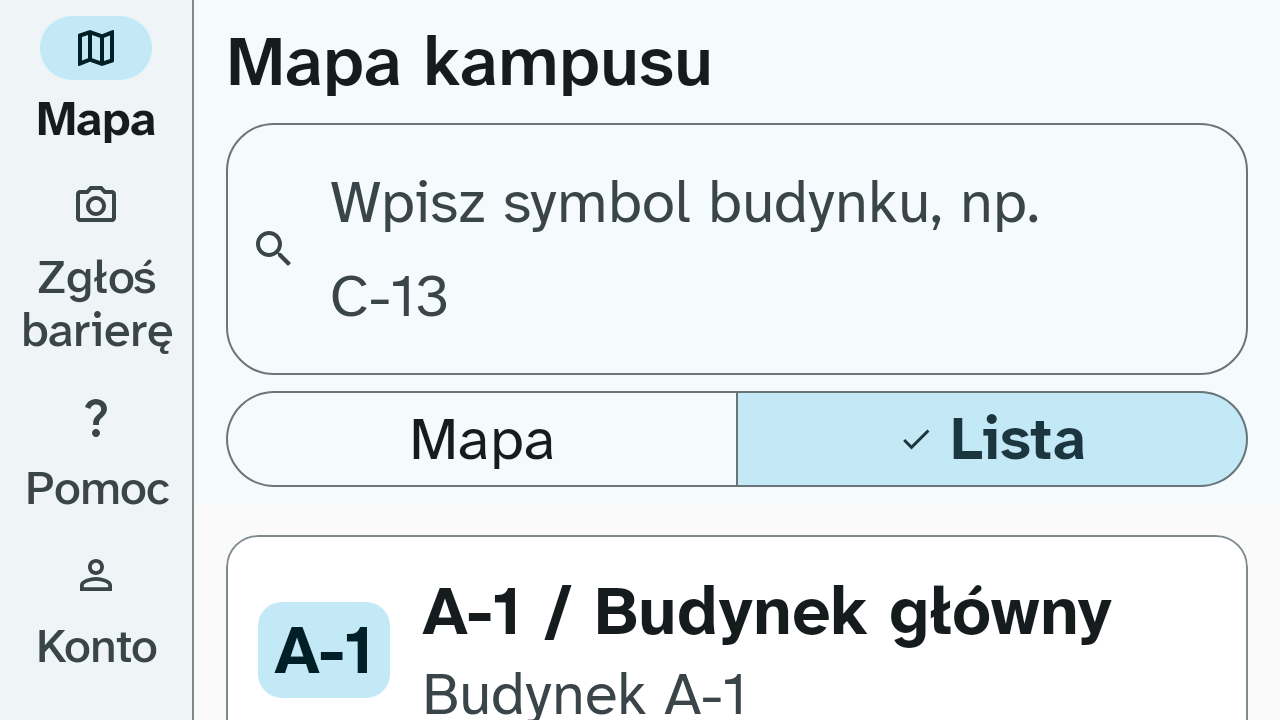
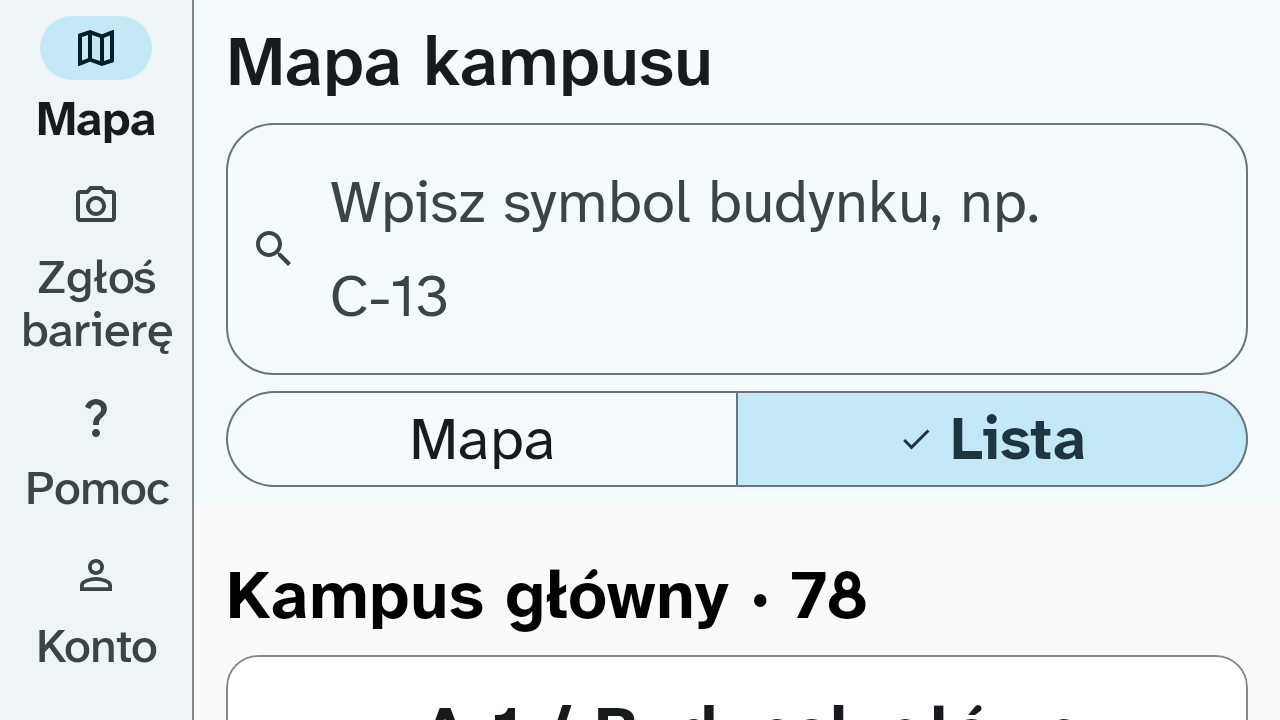
feat(android): nagłówki terenów na liście budynków v1 (#1058)
Lista budynków jest podzielona nagłówkami terenów z liczbą budynków:
teren pokazany na mapie pierwszy, pozostałe od najbliższego. Tereny
mapy są stanem ekranu, bo zna je teraz także lista.

Closes #1055

diff --git a/android/feature/map/src/test/kotlin/io/github/dostepnykampus/feature/map/BuildingListTest.kt b/android/feature/map/src/test/kotlin/io/github/dostepnykampus/feature/map/BuildingListTest.kt
@@ -1,0 +1,110 @@
+/*
+ * Dostępny Kampus
+ * Author: Vladyslav Yevkov
+ * Copyright (c) 2026 Vladyslav Yevkov, Myroslav Hryniuka, Yevhenii Lukianenko
+ */
+package io.github.dostepnykampus.feature.map
+
+import androidx.activity.ComponentActivity
+import androidx.compose.runtime.Composable
+import androidx.compose.ui.semantics.SemanticsProperties
+import androidx.compose.ui.test.SemanticsMatcher
+import androidx.compose.ui.test.assert
+import androidx.compose.ui.test.getUnclippedBoundsInRoot
+import androidx.compose.ui.test.junit4.v2.createAndroidComposeRule
+import androidx.compose.ui.test.onNodeWithContentDescription
+import androidx.compose.ui.test.onRoot
+import androidx.compose.ui.test.performClick
+import com.github.takahirom.roborazzi.captureRoboImage
+import io.github.dostepnykampus.core.designsystem.DostepnyKampusTheme
+import io.github.dostepnykampus.core.model.Building
+import io.github.dostepnykampus.core.model.BuildingCatalog
+import io.github.dostepnykampus.core.model.GeoPoint
+import io.github.dostepnykampus.core.model.GeoPolygon
+import io.github.dostepnykampus.feature.map.data.CampusBounds
+import io.github.dostepnykampus.feature.map.data.MapArea
+import org.junit.Assert.assertEquals
+import org.junit.Assert.assertTrue
+import org.junit.Rule
+import org.junit.Test
+import org.junit.runner.RunWith
+import org.robolectric.RobolectricTestRunner
+import org.robolectric.annotation.Config
+import org.robolectric.annotation.GraphicsMode
+
+/**
+ * Lista budynków V1 z nagłówkami terenów (US1.8, NFR-18, NFR-19) na budynkach testowych „Budynek testowy” (nie dane
+ * PWr): mapa pokazuje teren „Wittigowo”, więc stoi on na liście pierwszy.
+ */
+@RunWith(RobolectricTestRunner::class)
+@GraphicsMode(GraphicsMode.Mode.NATIVE)
+@Config(qualifiers = "w360dp-h800dp-xhdpi")
+class BuildingListTest {
+    @get:Rule
+    val compose = createAndroidComposeRule<ComponentActivity>()
+
+    private val catalog =
+        BuildingCatalog(
+            buildings = listOf("A-1", "T-15", "C-13", "T-16").map(::building),
+            entrances = emptyList(),
+            attribution = "",
+        )
+    private val areas =
+        AreaOrder(listOf(area("Wittigowo", "T-15", "T-16"), area("Kampus główny", "A-1", "C-13")))
+    private val chosen = mutableListOf<String>()
+
+    /**
+     * Wiersz: V1, lista budynków ma nagłówki terenów z liczbą budynków, teren pokazany na mapie pierwszy; nagłówek
+     * jest nagłówkiem dla TalkBack (US1.8, NFR-18, NFR-19).
+     */
+    @Test
+    fun us1_8_area_headings_in_order() {
+        compose.setContent { List(query = "") }
+        val first = compose.onNodeWithContentDescription("Wittigowo, 2 budynki")
+        val second = compose.onNodeWithContentDescription("Kampus główny, 2 budynki")
+        first.assert(SemanticsMatcher.keyIsDefined(SemanticsProperties.Heading))
+        second.assert(SemanticsMatcher.keyIsDefined(SemanticsProperties.Heading))
+        val building = compose.onNodeWithContentDescription("T-16, Budynek testowy").getUnclippedBoundsInRoot()
+        assertTrue(first.getUnclippedBoundsInRoot().bottom <= building.top)
+        assertTrue(building.bottom <= second.getUnclippedBoundsInRoot().top)
+    }
+
+    /** Wiersz: V1, wpisany symbol zawęża listę, a teren bez pasującego budynku nie ma nagłówka (US1.8, NFR-19). */
+    @Test
+    fun us1_8_query_drops_empty_area() {
+        compose.setContent { List(query = "c13") }
+        compose.onNodeWithContentDescription("Kampus główny, 2 budynki").assertExists()
+        compose.onNodeWithContentDescription("Wittigowo, 2 budynki").assertDoesNotExist()
+        compose.onNodeWithContentDescription("T-15, Budynek testowy").assertDoesNotExist()
+    }
+
+    /** Wiersz: V1, budynek z innego terenu na liście zgłasza swój symbol (US1.8). */
+    @Test
+    fun us1_8_building_click_reported() {
+        compose.setContent { List(query = "") }
+        compose.onNodeWithContentDescription("A-1, Budynek testowy").performClick()
+        assertEquals(listOf("A-1"), chosen)
+    }
+
+    @Test
+    fun us1_8_hifi_motyw_jasny() {
+        compose.setContent { List(query = "") }
+        compose.onRoot().captureRoboImage()
+    }
+
+    @Composable
+    private fun List(query: String) {
+        DostepnyKampusTheme {
+            BuildingList(catalog = catalog, query = query, areas = areas, onBuildingClick = { chosen += it })
+        }
+    }
+
+    private fun area(name: String, vararg symbols: String) =
+        MapArea(name, symbols.toList(), CampusBounds(west = 0.0, south = 0.0, east = 1.0, north = 1.0))
+
+    private fun building(symbol: String): Building {
+        val corners = listOf(0.0 to 0.0, 1.0 to 0.0, 1.0 to 1.0, 0.0 to 0.0)
+        val outline = GeoPolygon(listOf(corners.map { (lon, lat) -> GeoPoint(longitude = lon, latitude = lat) }))
+        return Building(symbol = symbol, name = "Budynek testowy", outline = outline)
+    }
+}

diff --git a/android/feature/map/src/main/kotlin/io/github/dostepnykampus/feature/map/BuildingList.kt b/android/feature/map/src/main/kotlin/io/github/dostepnykampus/feature/map/BuildingList.kt
@@ -1,0 +1,96 @@
+/*
+ * Dostępny Kampus
+ * Author: Vladyslav Yevkov
+ * Copyright (c) 2026 Vladyslav Yevkov, Myroslav Hryniuka, Yevhenii Lukianenko
+ */
+package io.github.dostepnykampus.feature.map
+
+import androidx.compose.foundation.layout.Arrangement
+import androidx.compose.foundation.layout.PaddingValues
+import androidx.compose.foundation.layout.WindowInsets
+import androidx.compose.foundation.layout.WindowInsetsSides
+import androidx.compose.foundation.layout.fillMaxWidth
+import androidx.compose.foundation.layout.only
+import androidx.compose.foundation.layout.padding
+import androidx.compose.foundation.layout.safeDrawing
+import androidx.compose.foundation.layout.windowInsetsPadding
+import androidx.compose.foundation.lazy.LazyColumn
+import androidx.compose.foundation.lazy.items
+import androidx.compose.material3.MaterialTheme
+import androidx.compose.material3.Text
+import androidx.compose.runtime.Composable
+import androidx.compose.runtime.remember
+import androidx.compose.ui.Modifier
+import androidx.compose.ui.res.stringResource
+import androidx.compose.ui.semantics.contentDescription
+import androidx.compose.ui.semantics.heading
+import androidx.compose.ui.semantics.semantics
+import io.github.dostepnykampus.core.designsystem.Odstepy
+import io.github.dostepnykampus.core.geo.searchBuildings
+import io.github.dostepnykampus.core.model.Building
+import io.github.dostepnykampus.core.model.BuildingCatalog
+import io.github.dostepnykampus.feature.map.data.MapArea
+
+/**
+ * Lista budynków V1 podzielona nagłówkami terenów z liczbą budynków, np. „Wittigowo · 9” (US1.8, NFR-19). W terenie
+ * budynki stoją w kolejności katalogu, a wpisany symbol [query] zawęża listę; teren bez pasującego budynku nie ma
+ * nagłówka. Nagłówek jest nagłówkiem dla TalkBack, który czyta „Wittigowo, 9 budynków” (NFR-18). Bez danych mapy
+ * lista nie ma nagłówków.
+ *
+ * @param catalog katalog budynków; `null`, dopóki się wczytuje
+ * @param query tekst z pola symbolu
+ * @param areas tereny w kolejności nagłówków
+ * @param onBuildingClick symbol budynku wybranego na liście
+ * @param modifier wymiary listy
+ */
+@Composable
+internal fun BuildingList(
+    catalog: BuildingCatalog?,
+    query: String,
+    areas: AreaOrder,
+    onBuildingClick: (String) -> Unit,
+    modifier: Modifier = Modifier,
+) {
+    val buildings =
+        remember(query, catalog) {
+            catalog?.run { if (query.isBlank()) buildings else searchBuildings(query, buildings) }.orEmpty()
+        }
+    val groups =
+        remember(buildings, areas) {
+            areas.areas.associateWith { area -> buildings.filter { it.symbol in area.symbols } }
+        }
+    val insets = WindowInsets.safeDrawing.only(WindowInsetsSides.Horizontal)
+    LazyColumn(
+        modifier = modifier.fillMaxWidth().windowInsetsPadding(insets),
+        contentPadding = PaddingValues(Odstepy.m),
+        verticalArrangement = Arrangement.spacedBy(Odstepy.s),
+    ) {
+        items(buildings - groups.values.flatten().toSet(), key = Building::symbol) { building ->
+            BuildingChoice(building) { onBuildingClick(building.symbol) }
+        }
+        groups.filterValues { it.isNotEmpty() }.forEach { (area, inArea) ->
+            item(key = AREA_KEY + area.name) { AreaHeading(area) }
+            items(inArea, key = Building::symbol) { building ->
+                BuildingChoice(building) { onBuildingClick(building.symbol) }
+            }
+        }
+    }
+}
+
+private const val AREA_KEY = "teren:"
+
+@Composable
+private fun AreaHeading(area: MapArea, modifier: Modifier = Modifier) {
+    val count = area.symbols.size
+    val buildings = stringResource(buildingsWord(count), count)
+    val spoken = stringResource(R.string.mapa_teren_naglowek_opis, area.name, buildings)
+    Text(
+        text = stringResource(R.string.mapa_teren_naglowek, area.name, count),
+        modifier =
+            modifier.padding(top = Odstepy.s).semantics {
+                heading()
+                contentDescription = spoken
+            },
+        style = MaterialTheme.typography.titleMedium,
+    )
+}

diff --git a/android/feature/map/src/main/kotlin/io/github/dostepnykampus/feature/map/CampusSearch.kt b/android/feature/map/src/main/kotlin/io/github/dostepnykampus/feature/map/CampusSearch.kt
@@ -17,8 +17,6 @@ import androidx.compose.foundation.layout.only
 import androidx.compose.foundation.layout.padding
 import androidx.compose.foundation.layout.safeDrawing
 import androidx.compose.foundation.layout.windowInsetsPadding
-import androidx.compose.foundation.lazy.LazyColumn
-import androidx.compose.foundation.lazy.items
 import androidx.compose.foundation.shape.RoundedCornerShape
 import androidx.compose.foundation.text.KeyboardOptions
 import androidx.compose.material3.FilledTonalButton
@@ -60,7 +58,6 @@ import io.github.dostepnykampus.core.designsystem.Odstepy
 import io.github.dostepnykampus.core.designsystem.Typografia
 import io.github.dostepnykampus.core.designsystem.Zaokraglenia
 import io.github.dostepnykampus.core.geo.searchBuildings
-import io.github.dostepnykampus.core.model.Building
 import io.github.dostepnykampus.core.model.BuildingCatalog
 
 private const val ICON_VIEWPORT = 24f
@@ -95,6 +92,7 @@ private val ClearIcon =
  * @param catalog katalog budynków; `null`, dopóki się wczytuje
  * @param isOnline czy jest internet; bez niego pod przełącznikiem stoi [OfflineLine]
  * @param isList czy przełącznik stoi na „Lista budynków”; wtedy pod górą jest lista budynków
+ * @param areas tereny w kolejności nagłówków listy budynków (US1.8)
  * @param onListChange wybór w przełączniku albo „Lista budynków” w karcie brak wyniku
  * @param onBuildingClick symbol wybranego wyniku albo budynku z listy; ekran otwiera V2 i zaznacza budynek. Wybór
  *   zdejmuje fokus z pola i chowa klawiaturę ekranową, a pierwsze „Wstecz” zamyka V2 (US1.1, NFR-15)
@@ -105,6 +103,7 @@ internal fun CampusSearch(
     catalog: BuildingCatalog?,
     isOnline: Boolean,
     isList: Boolean,
+    areas: AreaOrder,
     onListChange: (Boolean) -> Unit,
     onBuildingClick: (String) -> Unit,
     modifier: Modifier = Modifier,
@@ -140,6 +139,7 @@ internal fun CampusSearch(
             BuildingList(
                 catalog = catalog,
                 query = query,
+                areas = areas,
                 onBuildingClick = choose,
                 modifier = Modifier.weight(1f),
             )
@@ -210,29 +210,6 @@ private fun ResultPanel(content: @Composable ColumnScope.() -> Unit) {
             verticalArrangement = Arrangement.spacedBy(Odstepy.s),
             content = content,
         )
-    }
-}
-
-@Composable
-private fun BuildingList(
-    catalog: BuildingCatalog?,
-    query: String,
-    onBuildingClick: (String) -> Unit,
-    modifier: Modifier = Modifier,
-) {
-    val buildings =
-        remember(query, catalog) {
-            catalog?.run { if (query.isBlank()) buildings else searchBuildings(query, buildings) }.orEmpty()
-        }
-    val insets = WindowInsets.safeDrawing.only(WindowInsetsSides.Horizontal)
-    LazyColumn(
-        modifier = modifier.fillMaxWidth().windowInsetsPadding(insets),
-        contentPadding = PaddingValues(Odstepy.m),
-        verticalArrangement = Arrangement.spacedBy(Odstepy.s),
-    ) {
-        items(buildings, key = Building::symbol) { building ->
-            BuildingChoice(building) { onBuildingClick(building.symbol) }
-        }
     }
 }
 

diff --git a/android/feature/map/src/main/kotlin/io/github/dostepnykampus/feature/map/CampusMapScreen.kt b/android/feature/map/src/main/kotlin/io/github/dostepnykampus/feature/map/CampusMapScreen.kt
@@ -142,6 +142,7 @@ fun CampusMapScreen(
     val isCovered = contentPadding.calculateBottomPadding() > 0.dp
     val isList = state.isListSaved ?: (LocalDensity.current.fontScale >= LARGE_FONT_SCALE)
     val states = rememberSaveableStateHolder()
+    val areas = rememberMapAreas(state.mapData, focus)
     Column(modifier.fillMaxSize()) {
         if (!isCovered) {
             states.SaveableStateProvider(TOP_STATE) {
@@ -149,6 +150,7 @@ fun CampusMapScreen(
                     catalog = catalog,
                     isOnline = state.isOnline,
                     isList = isList,
+                    areas = areas.order,
                     onListChange = onListChange,
                     onBuildingClick = if (isList) onListBuildingClick else onBuildingClick,
                     modifier = if (isList) Modifier.weight(1f) else Modifier,
@@ -161,6 +163,7 @@ fun CampusMapScreen(
                     catalog = catalog,
                     layers = state.mapData,
                     focus = focus,
+                    areas = areas,
                     contentPadding = contentPadding,
                     mapView = mapView,
                     onBuildingClick = onBuildingClick,
@@ -177,6 +180,7 @@ private fun CampusMap(
     catalog: BuildingCatalog?,
     layers: CampusMapData?,
     focus: MapFocus?,
+    areas: MapAreas,
     contentPadding: PaddingValues,
     mapView: CampusMapView,
     onBuildingClick: (String) -> Unit,
@@ -187,7 +191,6 @@ private fun CampusMap(
     val isKeyboardOpen = WindowInsets.ime.getBottom(LocalDensity.current) > 0
     val topInset = WindowInsets.safeDrawing.only(WindowInsetsSides.Top)
     var size by remember { mutableStateOf(IntSize.Zero) }
-    val areas = rememberMapAreas(layers, focus)
     val state =
         rememberMapSceneState(
             layers = layers,

diff --git a/android/feature/map/src/main/kotlin/io/github/dostepnykampus/feature/map/MapAreas.kt b/android/feature/map/src/main/kotlin/io/github/dostepnykampus/feature/map/MapAreas.kt
@@ -6,6 +6,7 @@
 package io.github.dostepnykampus.feature.map
 
 import androidx.compose.runtime.Composable
+import androidx.compose.runtime.Immutable
 import androidx.compose.runtime.MutableState
 import androidx.compose.runtime.mutableStateOf
 import androidx.compose.runtime.remember
@@ -20,6 +21,14 @@ import io.github.dostepnykampus.feature.map.data.areaNeighbor
 import io.github.dostepnykampus.feature.map.data.areaOf
 import io.github.dostepnykampus.feature.map.data.center
 import io.github.dostepnykampus.feature.map.navigation.MapFocus
+
+/**
+ * Tereny w kolejności nagłówków listy budynków: pokazany na mapie pierwszy, pozostałe od najbliższego (US1.8).
+ *
+ * @property areas tereny z symbolami swoich budynków; puste, dopóki nie ma danych mapy
+ */
+@Immutable
+internal data class AreaOrder(val areas: List<MapArea>)
 
 /**
  * Tereny mapy V1: który teren mapa pokazuje i na jakie można go zmienić (US1.6, US1.7).
@@ -41,6 +50,13 @@ internal class MapAreas(
 
     /** Lista terenów: pokazany pierwszy, pozostałe od najbliższego, z liczbą budynków i odległością (US1.7). */
     val choices: List<AreaChoice> get() = current?.let { data?.areaChoices(it) }.orEmpty()
+
+    /** Tereny w kolejności nagłówków listy budynków: pokazany pierwszy, pozostałe od najbliższego (US1.8). */
+    val order: AreaOrder
+        get() {
+            val known = data?.areas.orEmpty().associateBy(MapArea::name)
+            return AreaOrder(choices.mapNotNull { known[it.name] })
+        }
 
     /** Sąsiedni teren dla środka widoku [view] na granicy pokazanego terenu; `null` z dala od granicy (US1.7). */
     fun neighbor(view: GeoPoint): AreaNeighbor? = current?.let { data?.areaNeighbor(it, view) }

diff --git a/android/app/src/test/kotlin/io/github/dostepnykampus/app/BuildingOnMapCameraTest.kt b/android/app/src/test/kotlin/io/github/dostepnykampus/app/BuildingOnMapCameraTest.kt
@@ -18,6 +18,7 @@ import androidx.compose.ui.Modifier
 import androidx.compose.ui.layout.onSizeChanged
 import androidx.compose.ui.platform.LocalDensity
 import androidx.compose.ui.test.SemanticsMatcher
+import androidx.compose.ui.test.hasClickAction
 import androidx.compose.ui.test.hasContentDescription
 import androidx.compose.ui.test.hasText
 import androidx.compose.ui.test.isSelectable
@@ -198,7 +199,7 @@ class BuildingOnMapCameraTest {
         assertFalse("$symbol widać już przed poleceniem", before.shows(data.labelPointOf(symbol)))
         val count = shown.size
         click(hasText("Lista budynków") and isSelectable())
-        click(hasContentDescription("$symbol, ", substring = true))
+        click(hasContentDescription("$symbol, ", substring = true) and hasClickAction())
         click(hasText(BUILDING_ON_MAP))
         compose.waitUntil { shown.size > count }
     }
